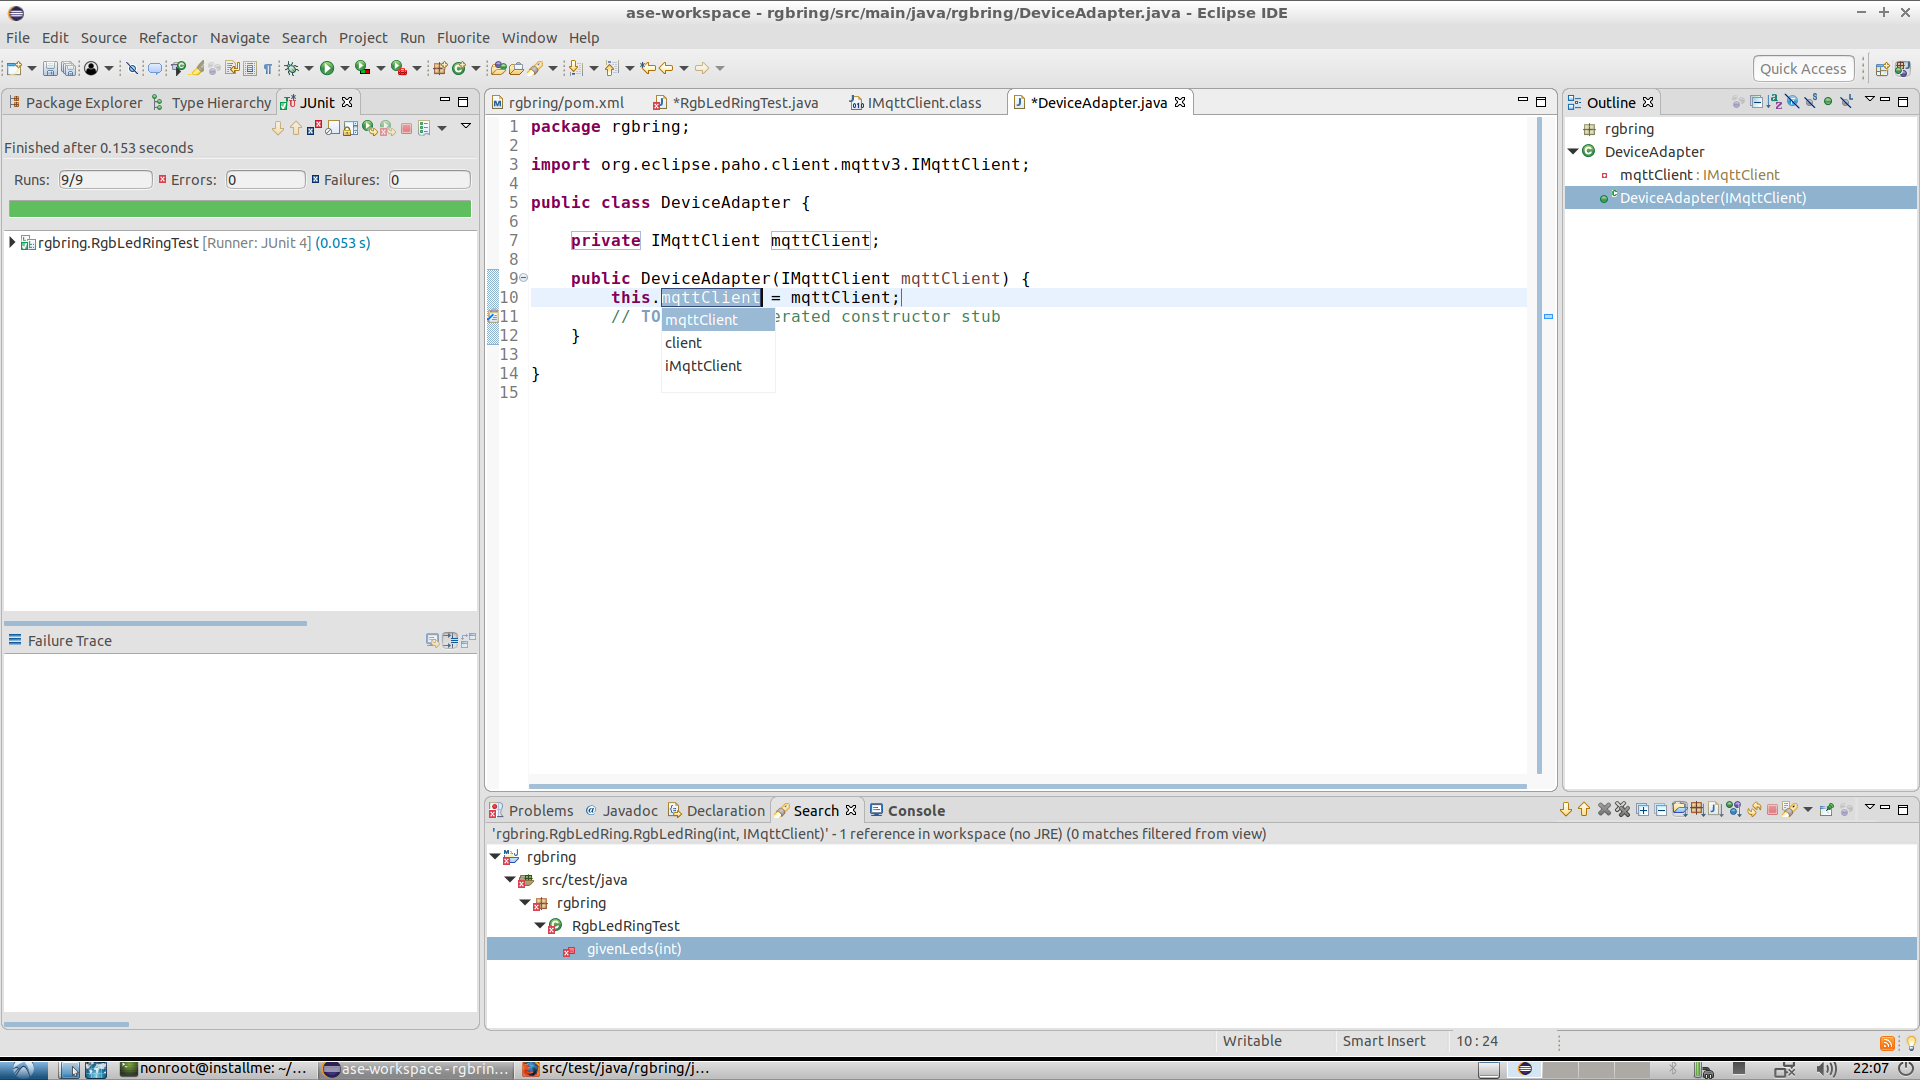
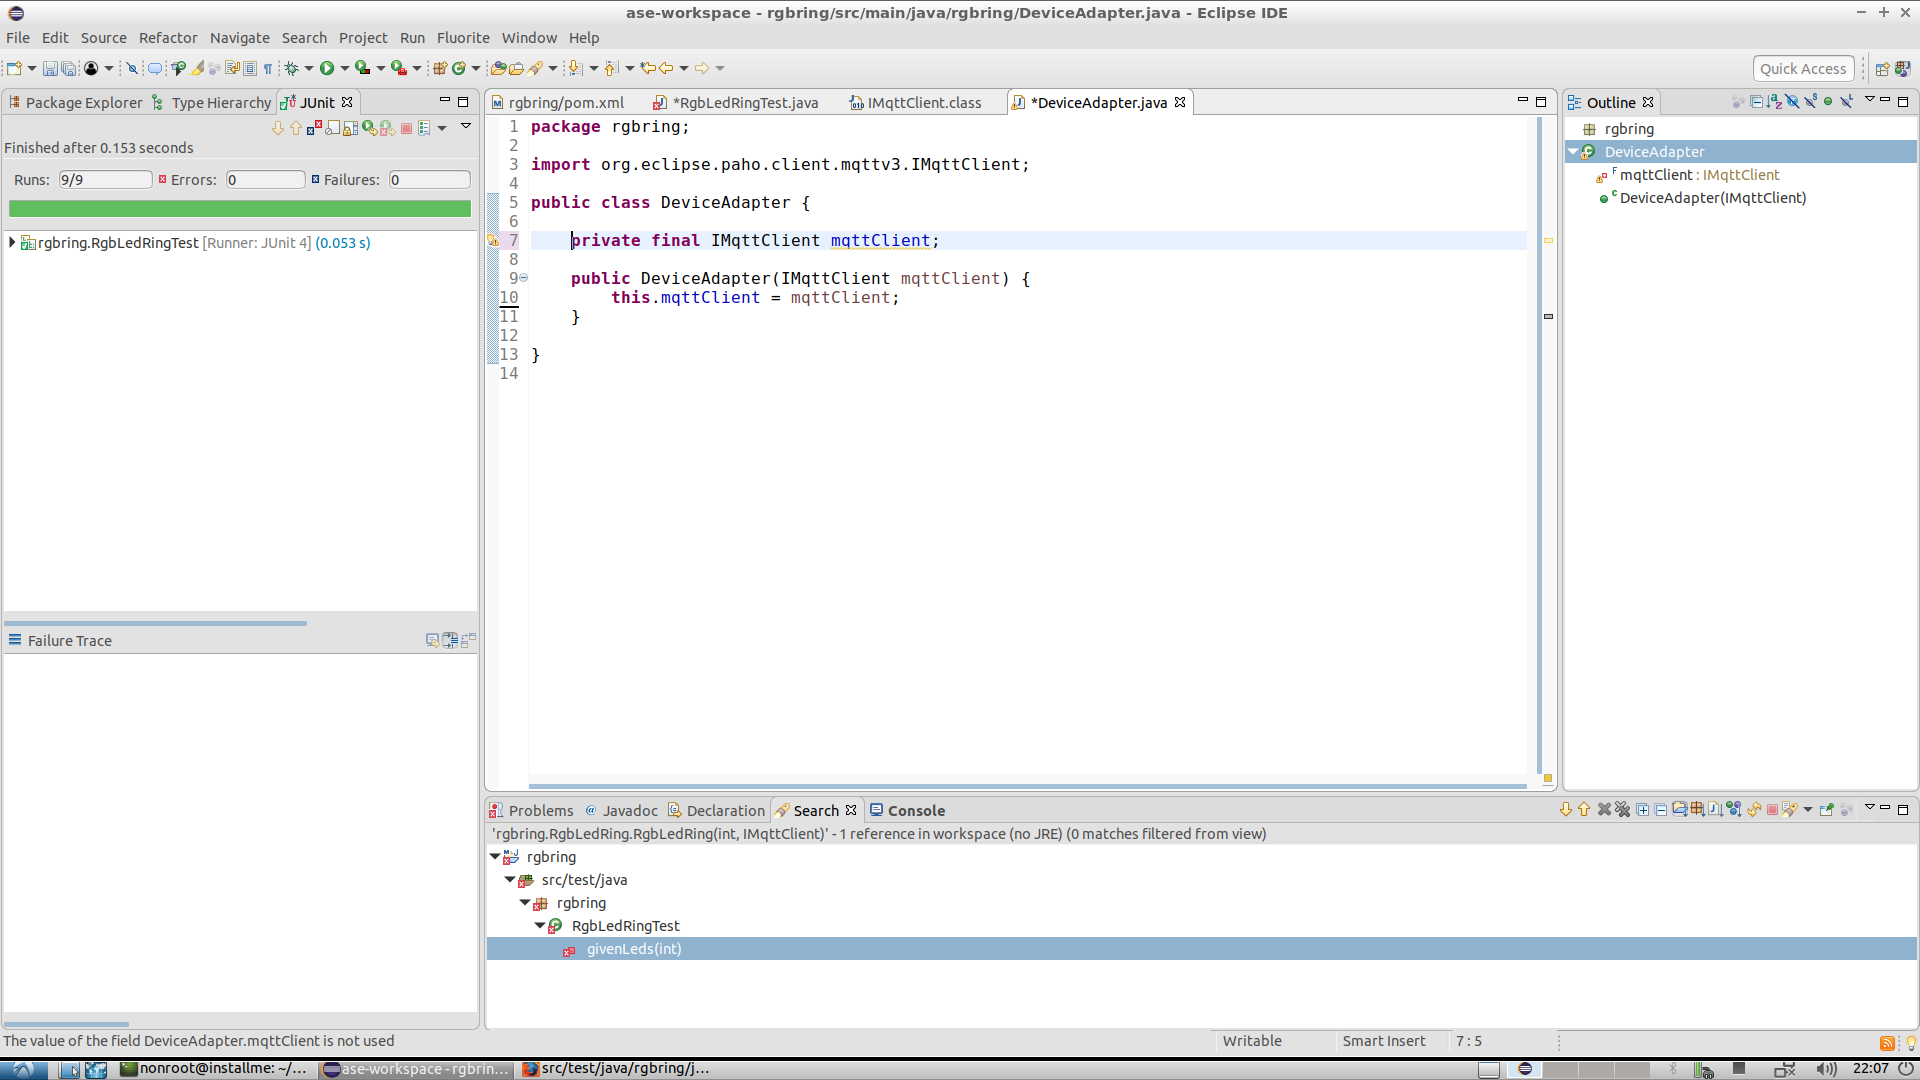
autocommit on change

diff --git a/src/main/java/rgbring/DeviceAdapter.java b/src/main/java/rgbring/DeviceAdapter.java
@@ -4,11 +4,10 @@ import org.eclipse.paho.client.mqttv3.IMqttClient;
 
 public class DeviceAdapter {
 
-	private IMqttClient mqttClient;
+	private final IMqttClient mqttClient;
 
 	public DeviceAdapter(IMqttClient mqttClient) {
 		this.mqttClient = mqttClient;
-		// TODO Auto-generated constructor stub
 	}
 
 }
